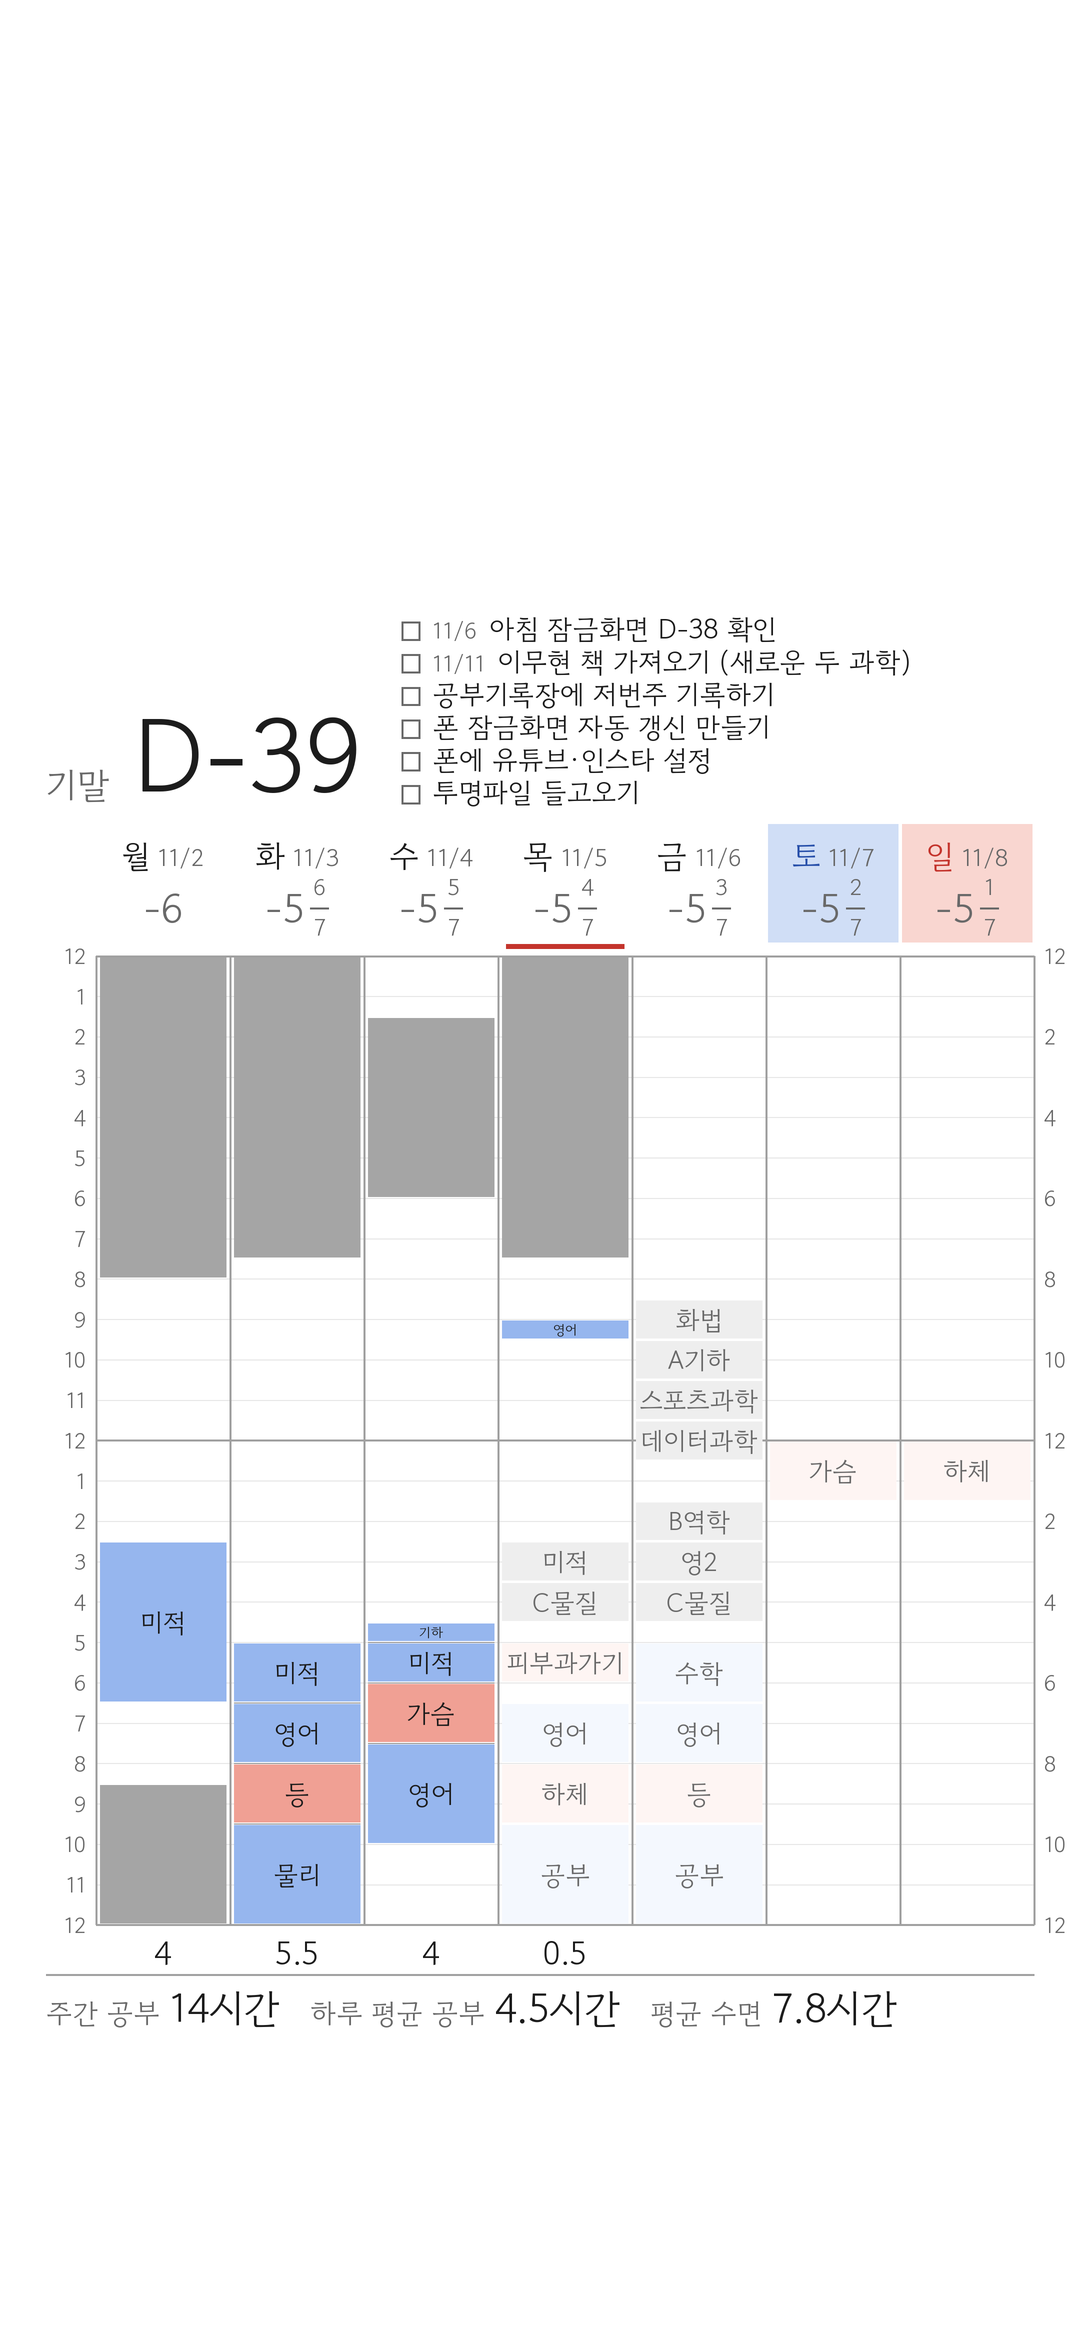
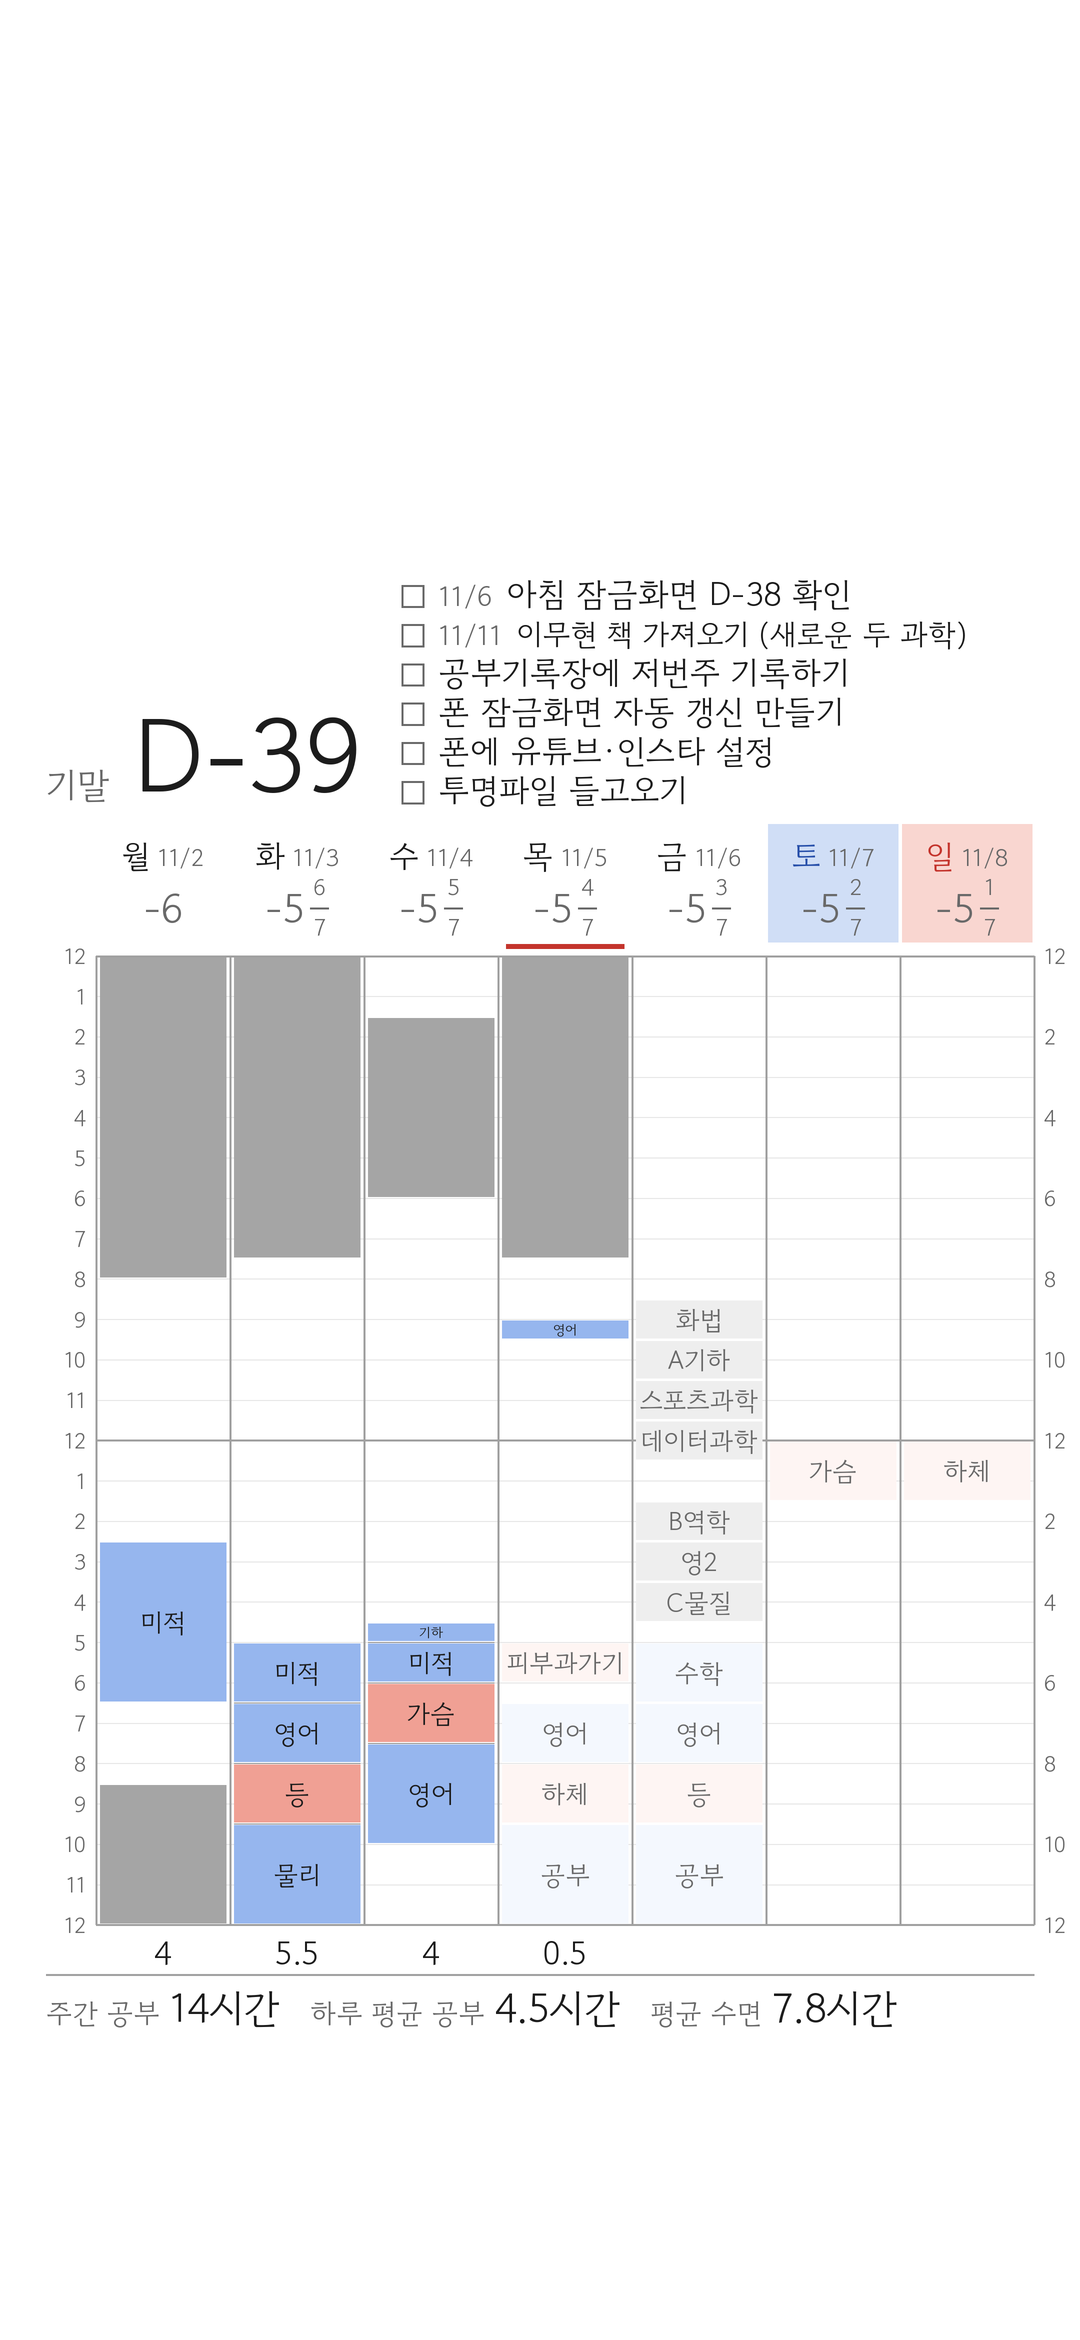
폰 잠금화면 할일 글자 1.2배 확대 (태블릿은 그대로)
Claude-Session: https://claude.ai/code/session_016sgH3TiDNtMfBDqEdhxfRP

Changed region(s): [[0.3667, 0.2496, 0.825, 0.3432], [0.5194, 0.6551, 0.55, 0.6863]]

diff --git a/make.py b/make.py
@@ -111,7 +111,7 @@ def footer(g, stats, L, R, y, u):
         x += text_w(g, value, fb) + 30 * u
 
 
-def todo_list(g, data, today, x0, R, y, u):
+def todo_list(g, data, today, x0, R, y, u, scale=1.0):
     """머리말 줄 오른쪽 빈 자리(D-day 옆)에 해야 할 일을 모두 적는다.
     맨 아래 줄 자리는 고정하고, 많아지면 위쪽 빈 공간으로 늘린다. 많을수록 글자와 간격이 줄어든다.
     날짜 있는 것은 지난 뒤 사라진다."""
@@ -121,7 +121,7 @@ def todo_list(g, data, today, x0, R, y, u):
     MAXN = 14
     more, items = len(items) - MAXN, items[:MAXN]
     n = len(items)
-    k = 1.0 if n <= 4 else max(0.62, 1 - 0.07 * (n - 4))   # 많을수록 작게
+    k = (1.0 if n <= 4 else max(0.62, 1 - 0.07 * (n - 4))) * scale   # 많을수록 작게, scale은 기기별 확대
     fd, gap, box = font(SANS, int(27 * u * k)), 38 * u * k, 22 * u * k
     last = y + 102 * u                 # 맨 아래 줄의 글자 밑선 (3개일 때와 같은 자리)
     left = x0 + 40 * u
@@ -143,7 +143,7 @@ def todo_list(g, data, today, x0, R, y, u):
         g.text((R, last + gap * 0.9), f"+{more}", font=fd, fill=INK_SOFT, anchor="rs")
 
 
-def draw(data, today, W, H, out):
+def draw(data, today, W, H, out, todo_scale=1.0):
     u = W / 1080
     im = Image.new("RGB", (W * SS, H * SS), PAPER)
     g = ImageDraw.Draw(im)
@@ -158,7 +158,7 @@ def draw(data, today, W, H, out):
     col = (R - grid_l) / 7
     y0 = H * TOP_EMPTY
     y, dday_end = header(g, data, today, W, L, R, y0, u)
-    todo_list(g, data, today, dday_end, R, y0, u)
+    todo_list(g, data, today, dday_end, R, y0, u, todo_scale)
 
     _n = datetime.datetime.now(KST)
     now_h = _n.hour + _n.minute / 60
@@ -302,5 +302,5 @@ if __name__ == "__main__":
     with open(os.path.join(base, f"data{sfx}.json"), encoding="utf-8") as f:
         data = json.load(f)
     today = datetime.datetime.now(KST).date()
-    draw(data, today, 1080, 2340, os.path.join(base, f"phone{sfx}.png"))
+    draw(data, today, 1080, 2340, os.path.join(base, f"phone{sfx}.png"), todo_scale=1.2)
     draw(data, today, 1200, 1920, os.path.join(base, f"tablet{sfx}.png"))
